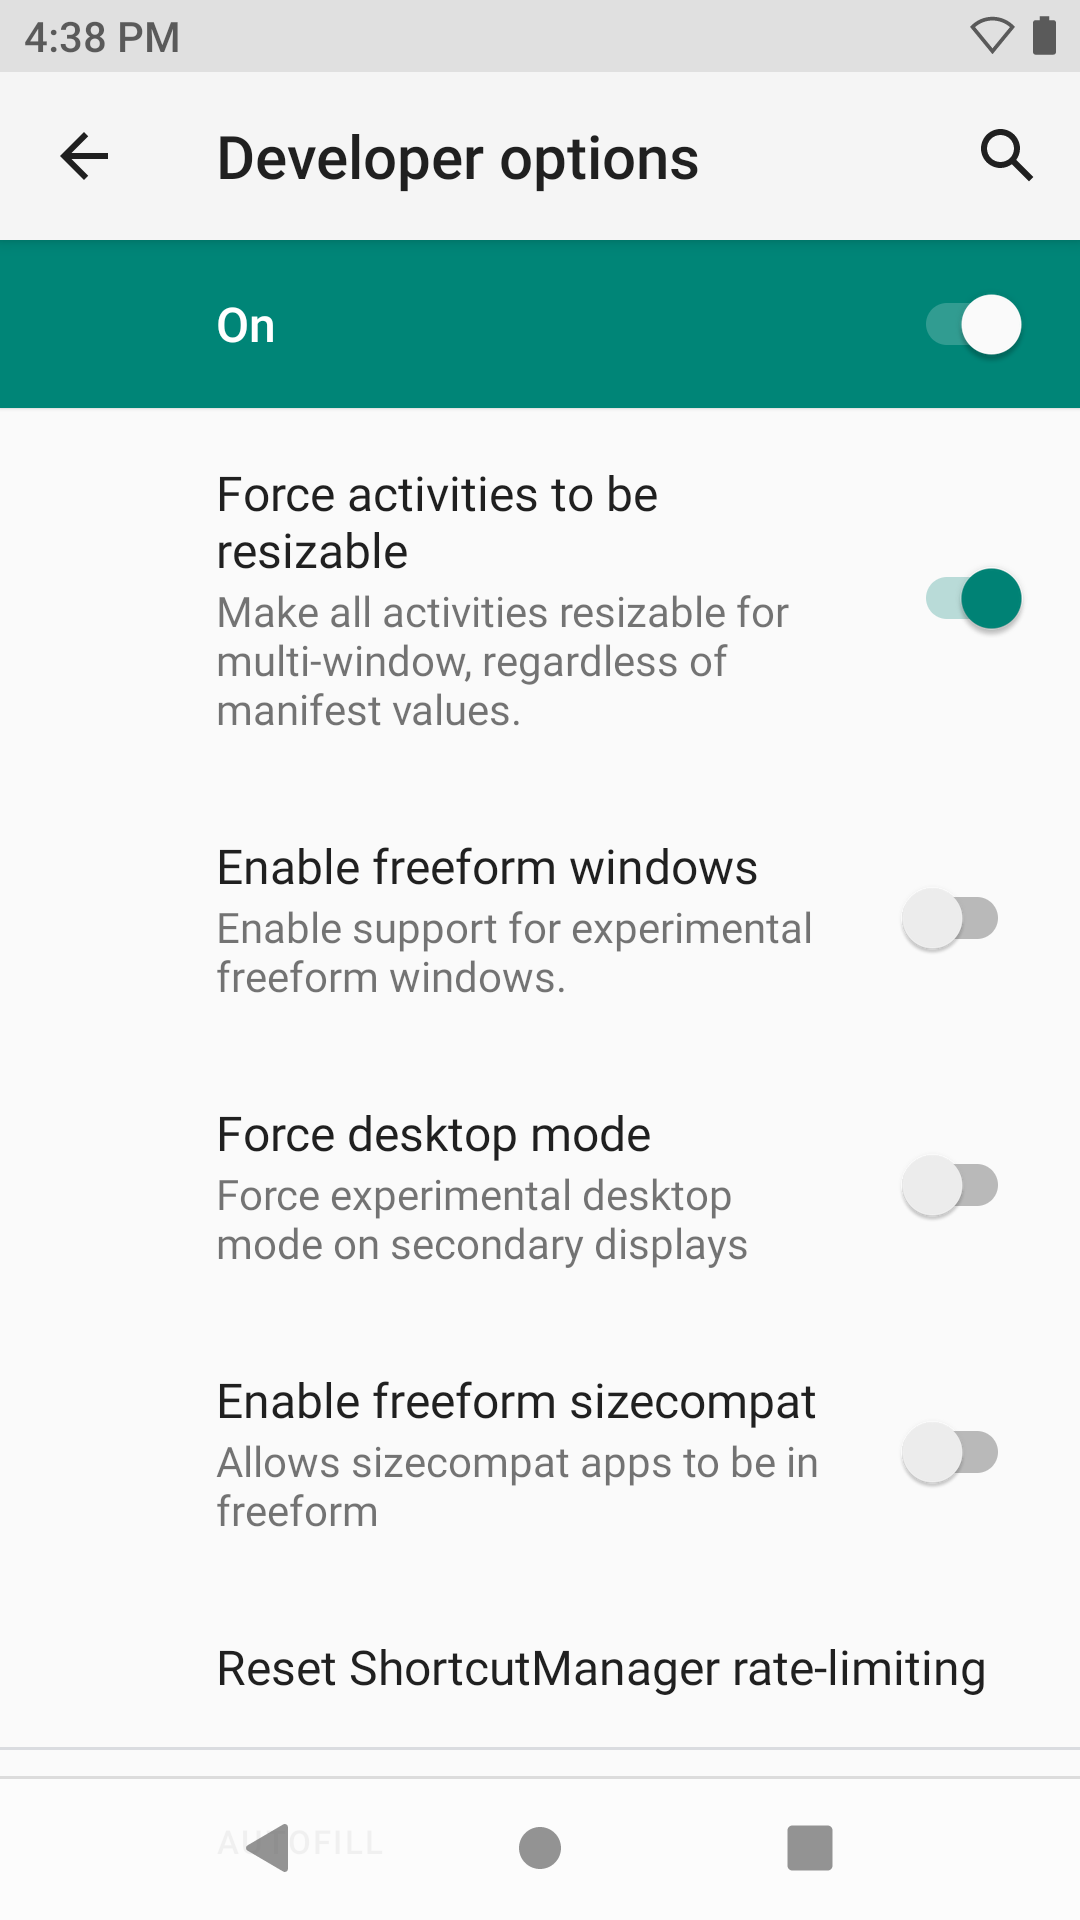
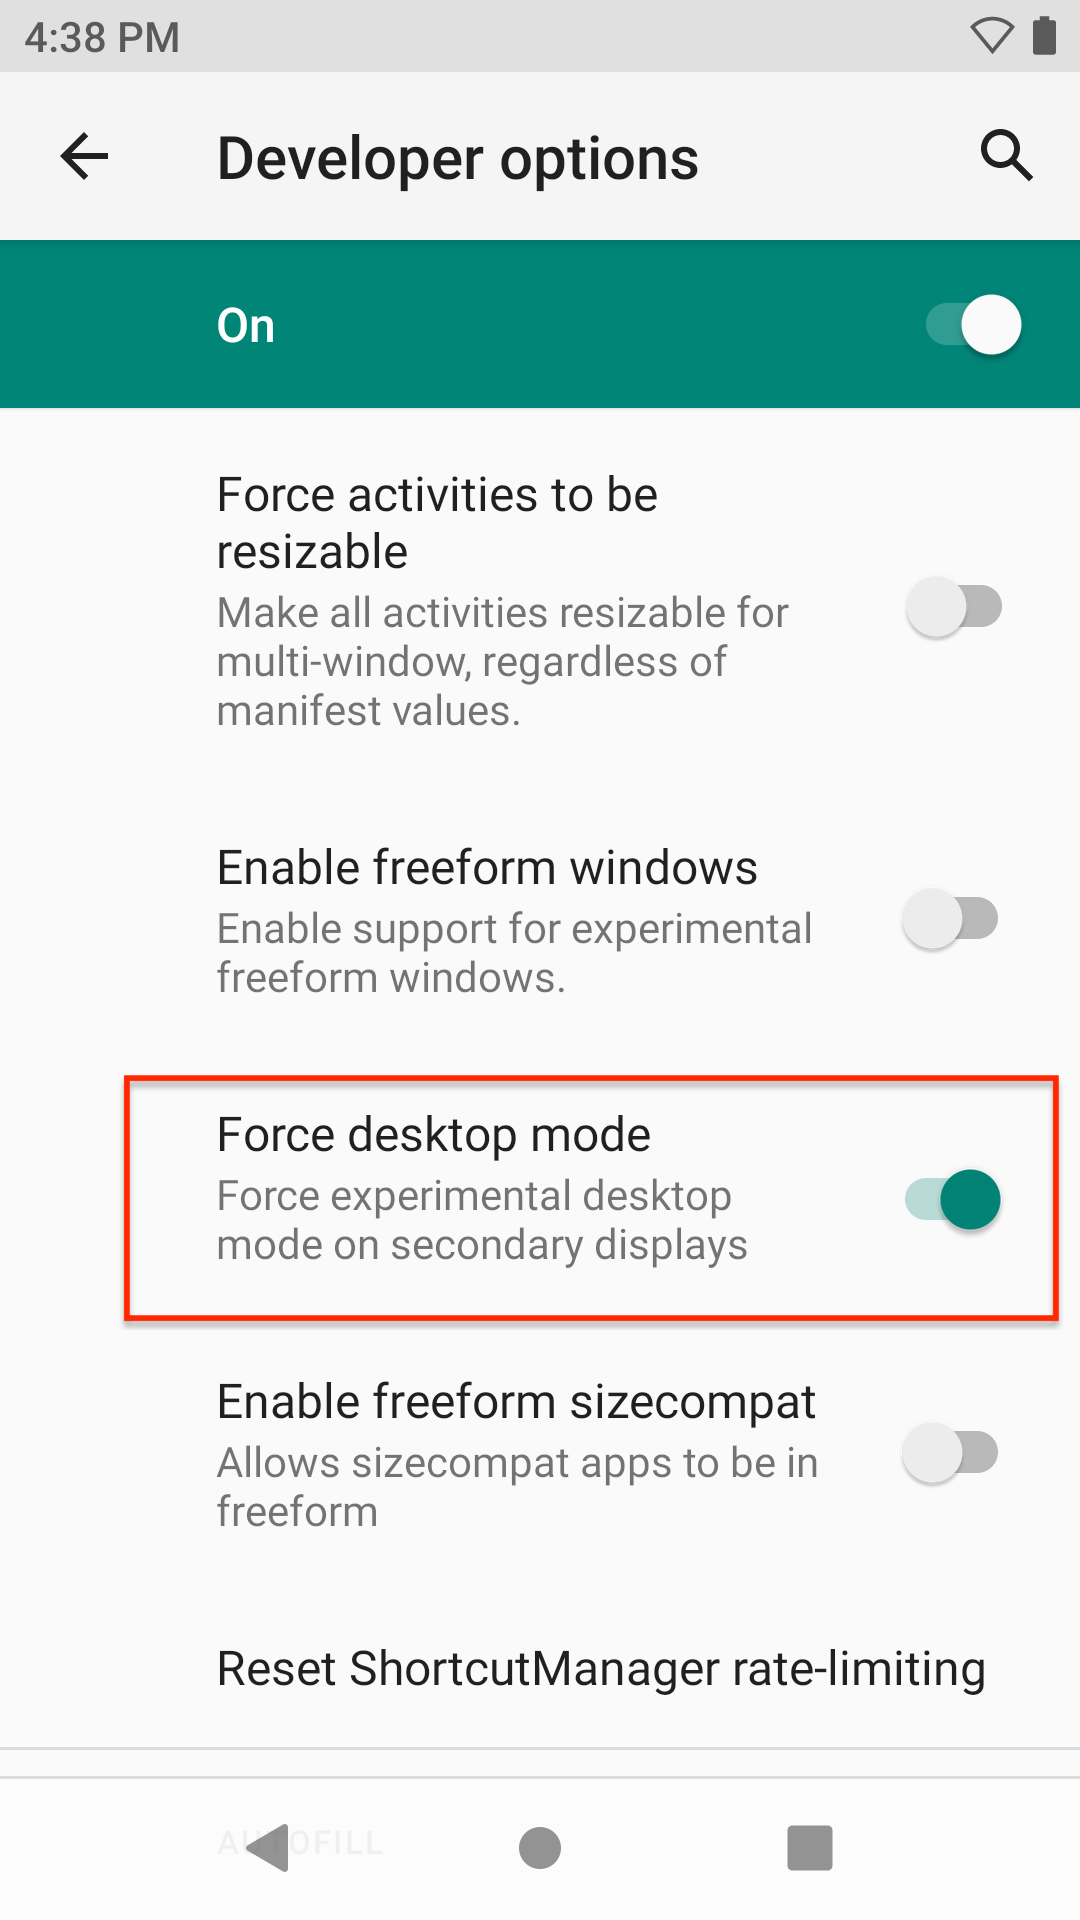
[TUT-54953] ZWC 1.0 updates, tweaks, per team feedback

Changed region(s): [[0.0917, 0.5625, 1.0, 0.7188], [0.8556, 0.2812, 0.9472, 0.3438]]

diff --git a/zwc/setup/index.html b/zwc/setup/index.html
@@ -230,7 +230,7 @@ _Click to enlarge; ESC to exit._
 <ul>
 <li><strong><a href="https://www.zebra.com/us/en/support-downloads/software/productivity-apps/workstation-connect.html">Supported Zebra device(s)</a></strong> running Android 11 (or later)</li>
 
-<li>Android 11 OS package <code>11-13-13.00-RG-U00-PRD-HEL-04</code> (or later) deployed to supported Zebra device(s)</li>
+<li>The latest <strong>Android 11 OS package</strong>  deployed to supported Zebra device(s)</li>
 
 <li><strong>The Zebra Workstation Connect app v1.0</strong> (or later)</li>
 
@@ -287,11 +287,11 @@ Is there a product page (on support portal) for Workstation Docking Cradle?
  -->
 
 <ol>
-<li><p>To prepare for copying files directly from a PC to the device via USB, <strong><a href="https://developer.android.com/studio/debug/dev-options">enable developer options and USB debugging</a> in the device Settings panel</strong>. </p></li>
+<li><p>To prepare for copying files directly from a PC to the device via USB: <br><strong><a href="https://developer.android.com/studio/debug/dev-options">enable developer options and USB debugging</a> in the device Settings panel</strong>. </p></li>
 
-<li><p><strong>Push the Zebra Workstation Connect app</strong> (<code>com.zebra.workstationconnect.release.apk</code>) <strong>onto target device(s)</strong> using adb or a similar means. </p></li>
+<li><p><strong>Push the Zebra Workstation Connect app</strong> (<code>com.zebra.workstationconnect.release</code>) <strong>onto target device(s)</strong> using adb or a similar means. </p></li>
 
-<li><p>On the device, <strong>navigate to</strong> <code>com.zebra.workstationconnect.release.apk</code> <strong>and install the app</strong>. </p></li>
+<li><p>On the device, <strong>navigate to</strong> <code>com.zebra.workstationconnect.release</code> <strong>and install the app</strong>. </p></li>
 
 <li><p>On the device screen, <strong>navigate to the ZWC app and long-press its icon</strong>.<br>Alternatively, go to <strong>Settings &gt; Apps &amp; notifications &gt; SEE ALL APPS &gt; WorkstationConnect &gt; Advanced &gt; Display over other apps</strong>. <br>A screen appears similar to the one shown below: 
 <img alt="image" style="height:350px" src="zwc_display_over.png">
@@ -299,15 +299,14 @@ Is there a product page (on support portal) for Workstation Docking Cradle?
 
 <li><p><strong>Enable the "Display over other apps" option</strong> (it might be necessary to scroll down). <br>When finished, <strong>exit the Settings panel</strong>. </p></li>
 
-<li><p><strong>Zebra recommends forcing activities to be resizable</strong> to provide users with flexibility when organizing their desktops.<br>To enable this setting, go to: <br> <strong>Settings &gt; System &gt; Advanced &gt; Developer options &gt; (scroll down to) Force activities to be resizable</strong>.<br>
+<li><p>In the Developer options panel, <strong>enable Desktop Mode</strong>:<br>
+<strong>Settings &gt; System &gt; Advanced &gt; Developer options &gt; (scroll down to) Enable desktop mode</strong>
 <img alt="image" style="height:450px" src="force_resizable.png">
-<strong>NOTE: Zebra recommends fully testing the functionality of this option with all apps before deployment to production environments</strong>.
+<strong>IMPORTANT</strong>: Mobile-device apps are often configured with a fixed window size, which can impose limits when organizing multiple apps running on the desktop. Selecting the option to <strong>Force activities to be resizable</strong> (shown above) can help alleviate this issue, but <strong>should be tested thoroughly before deployment to production environments</strong>.
 <br></p></li>
-
-<li><p><strong>Reboot the device</strong>. </p></li>
 </ol>
 
-<h4 id="thedevicenowpresentsdesktopmodewhendocked" class="anchor"><a class="heading-anchor" href="#thedevicenowpresentsdesktopmodewhendocked"><span></span></a>The device now presents Desktop Mode when docked.</h4>
+<h4 id="afterrebootingthedevicepresentsdesktopmodewheneverdocked" class="anchor"><a class="heading-anchor" href="#afterrebootingthedevicepresentsdesktopmodewheneverdocked"><span></span></a>After rebooting, the device presents Desktop Mode whenever docked.</h4>
 
 <p><strong>When first inserted into a Workstation Docking Cradle that's connected to an external monitor</strong>, a device configured as above displays the Zebra Workstation Connect default Desktop similar to the image below. The device screen allows the user to launch and run applications as usual. </p>
 
@@ -320,24 +319,6 @@ Is there a product page (on support portal) for Workstation Docking Cradle?
 <blockquote>
   <p><strong>For help setting up Desktop Mode, see the <a href="../pdf/workstationcradle-ug.pdf">Workstation Cradle User Guide (pdf)</a></strong><br> <br> Also see important <a href="../usage">Usage Notes</a> </p>
 </blockquote>
-
-<hr>
-
-<h2 id="alsosee" class="anchor"><a class="heading-anchor" href="#alsosee"><span></span></a>Also See</h2>
-
-<p><strong>For more information about ZWC setup, administration, features and usage</strong>, please refer to the following guides:</p>
-
-<ul>
-<li><strong><a href="../pdf/workstationcradle-admin.pdf">Workstation Connect Administrator's Guide (pdf)</a></strong> | Setting up users, installing/removing apps and shortcuts, configuring access to apps and USB-based storage</li>
-
-<li><strong><a href="../pdf/workstationcradle-ig.pdf">Workstation Connect Installation Guide (pdf)</a></strong> | Installing the ZWC solution manually, or using Zebra StageNow or an EMM system</li>
-
-<li><strong><a href="../pdf/workstationcradle-ug.pdf">Workstation Connect User Guide (pdf)</a></strong> | Desktop Mode set-up and usage</li>
-
-<li><strong><a href="../usage">Usage Notes</a></strong> | Behaviors and restrictions of the Zebra Workstation Connect solution</li>
-
-<li><strong><a href="../faq">FAQ</a></strong> | Frequently asked questions about ZWC</li>
-</ul>
 
 <hr>
 
@@ -407,7 +388,31 @@ for (Display display : displays) {
 
 <h3 id="startingtasks" class="anchor"><a class="heading-anchor" href="#startingtasks"><span></span></a>Starting Tasks</h3>
 
-<p>For apps containing multiple activities, <strong>Zebra recommends following Android developer <a href="https://developer.android.com/guide/components/activities/tasks-and-back-stack#Starting">guidance for starting a new task</a></strong>. </p><p></p>
+<p>For apps containing multiple activities, <strong>Zebra recommends following Android developer <a href="https://developer.android.com/guide/components/activities/tasks-and-back-stack#Starting">guidance for starting a new task</a></strong>. </p>
+
+<hr>
+
+<h3 id="monitordocking" class="anchor"><a class="heading-anchor" href="#monitordocking"><span></span></a>Monitor Docking</h3>
+
+<p>To monitor the docking status of a device programmatically, <strong>try this <a href="https://developer.android.com/training/monitoring-device-state/docking-monitoring">sample code from the Android development community</a></strong>.</p>
+
+<hr>
+
+<h2 id="alsosee" class="anchor"><a class="heading-anchor" href="#alsosee"><span></span></a>Also See</h2>
+
+<p><strong>For more information about ZWC setup, administration, features and usage</strong>, please refer to the following guides:</p>
+
+<ul>
+<li><strong><a href="../pdf/workstationcradle-admin.pdf">Workstation Connect Administrator's Guide (pdf)</a></strong> | Setting up users, apps and shortcuts, configuring access to USB storage</li>
+
+<li><strong><a href="../pdf/workstationcradle-ig.pdf">Workstation Connect Installation Guide (pdf)</a></strong> | Installing the ZWC solution manually, or using Zebra StageNow or an EMM system</li>
+
+<li><strong><a href="../usage">Usage Notes</a></strong> | Behaviors and restrictions of the Zebra Workstation Connect solution</li>
+
+<li><strong><a href="../faq">FAQ</a></strong> | Frequently asked questions about ZWC</li>
+</ul>
+
+<hr><p></p>
                                         
 
 

diff --git a/zwc/about/index.html b/zwc/about/index.html
@@ -227,27 +227,12 @@
 
 <hr>
 
-<h2 id="mirrormode" class="anchor"><a class="heading-anchor" href="#mirrormode"><span></span></a>Mirror Mode</h2>
-
-<p><strong>Mirror Mode displays the same content on the monitor as on the device</strong>. The only difference is the orientation, which is adjusted to display content in landscape mode on the monitor from the vertically oriented device (see image, below). Supported devices will use Mirror Mode by default whenever they're docked in a Workstation Docking Cradle that's connected to an HDMI monitor. </p>
-
-<p><strong>This mode offers the easiest setup</strong>; after installing the required OS on one or more supported devices and connecting a keyboard, mouse and monitor to a Zebra Workstation Docking Cradle, setup is complete. If Mirror Mode functionality is adequate for the intended use case, no further configuration is required. </p>
-
-<p><img alt="image" style="height:450px" src="zwc_gear.png">
-<em>Mirror Mode displays the same content on device and monitor, with adjusted orientation. <br>Click to enlarge; ESC to exit.</em>
-<br>
-<br></p>
-
-<h5 id="foradditionalfeaturesincludingtheabilitytoremotelyconfigurezwcsettingsproceedtothenextsection" class="anchor"><a class="heading-anchor" href="#foradditionalfeaturesincludingtheabilitytoremotelyconfigurezwcsettingsproceedtothenextsection"><span></span></a>For additional features, including the ability to remotely configure ZWC settings, proceed to the next section.</h5>
-
-<hr>
-
 <h2 id="desktopmode" class="anchor"><a class="heading-anchor" href="#desktopmode"><span></span></a>Desktop Mode</h2>
 
 <p><strong>Desktop Mode allows an external monitor to appear to work independently of the mobile device</strong>, displaying a separate set of apps and data from the mobile device. All running apps can accept input from a connected keyboard and mouse as well as the touch screen. </p>
 
 <p><img alt="image" style="height:300px" src="zwc_hardware_retailer_ET.jpeg">
-<em>Desktop Mode can display different sets of apps on the device and monitor (ET5x tablet shown). <br>Click to enlarge; ESC to exit.</em>
+<em>Desktop Mode can display different sets of apps on the device and monitor (Shown: ET5x tablet coming soon). <br>Click to enlarge; ESC to exit.</em>
 <br></p>
 
 <p><strong>This is made possible by Zebra Workstation Connect</strong>, an app launcher for Android that executes automatically whenever a device containing the ZWC app is inserted into a Zebra Workstation Docking Cradle. ZWC handles all communications through the dock, presents the preferred desktop on the external monitor and stores the display resolution settings, app shortcuts and all other user preferences. </p>
@@ -300,10 +285,27 @@
 
 <hr>
 
+<h2 id="mirrormode" class="anchor"><a class="heading-anchor" href="#mirrormode"><span></span></a>Mirror Mode</h2>
+
+<p><strong>Mirror Mode displays the same content on the monitor as on the device</strong>. The only difference between the two is the orientation, which is adjusted to display content in landscape mode on the monitor from the vertically oriented device (see image, below). Supported devices will use Mirror Mode by default whenever they're docked in a Workstation Docking Cradle that's connected to an HDMI monitor. </p>
+
+<p><strong>This mode offers the easiest setup</strong>; after installing the required OS on one or more supported devices and connecting a keyboard, mouse and monitor to a Zebra Workstation Docking Cradle, setup is complete. If Mirror Mode functionality is adequate for the intended use case, no further configuration is required. </p>
+
+<p><img alt="image" style="height:450px" src="zwc_gear.png">
+<em>Mirror Mode displays the same content on device and monitor, with adjusted orientation. <br>Click to enlarge; ESC to exit.</em>
+<br>
+<br></p>
+
+<h5 id="foradditionalfeaturesincludingtheabilitytoremotelyconfigurezwcsettingsproceedtothenextsection" class="anchor"><a class="heading-anchor" href="#foradditionalfeaturesincludingtheabilitytoremotelyconfigurezwcsettingsproceedtothenextsection"><span></span></a>For additional features, including the ability to remotely configure ZWC settings, proceed to the next section.</h5>
+
+<hr>
+
 <h2 id="alsosee" class="anchor"><a class="heading-anchor" href="#alsosee"><span></span></a>Also See</h2>
 
 <ul>
 <li><strong><a href="../setup">ZWC Setup Guide</a></strong> | How to configure a device for ZWC, set ZWC options and mass-deploy</li>
+
+<li><strong><a href="../pdf/workstationcradle-ug.pdf">Workstation Connect User Guide (pdf)</a></strong> | Desktop Mode set-up and usage</li>
 
 <li><strong><a href="../usage">Usage Notes</a></strong> | ZWC app behaviors and restrictions</li>
 

diff --git a/zwc/faq/index.html b/zwc/faq/index.html
@@ -237,7 +237,7 @@
 <p><strong>A: The ZWC package name is</strong>:</p>
 
 <ul>
-<li><code>com.zebra.workstationconnect.release.apk</code></li>
+<li><code>com.zebra.workstationconnect.release</code></li>
 </ul>
 
 <hr>
@@ -263,7 +263,7 @@
 
 <h3 id="qisthezwcapprequiredtoconnectmyzebradevicetoakeyboardmouseandexternalmonitor" class="anchor"><a class="heading-anchor" href="#qisthezwcapprequiredtoconnectmyzebradevicetoakeyboardmouseandexternalmonitor"><span></span></a>Q: Is the ZWC app required to connect my Zebra device to a keyboard, mouse and external monitor?</h3>
 
-<p><strong>A: No, if Mirror Mode is adequate for the use case</strong>. The ZWC app must be installed only if Desktop Mode is required. </p>
+<p><strong>A: No, provided that Mirror Mode is adequate for the use case</strong>. The ZWC app must be installed only if Desktop Mode is required. </p>
 
 <hr>
 
@@ -289,6 +289,14 @@
 <h3 id="qwhydoesnttheaudiolevelincreasewhenraisingthevolume" class="anchor"><a class="heading-anchor" href="#qwhydoesnttheaudiolevelincreasewhenraisingthevolume"><span></span></a>Q: Why doesn't the audio level increase when raising the volume?</h3>
 
 <p><strong>A: Increasing audio volume past a certain level sometimes causes a safety warning to be displayed on the primary (device) screen, where it might go unnoticed. If this happens, find the warning and tap "OK" to continue</strong>. </p>
+
+<hr>
+
+<h3 id="qwhycantilogintoanyappsfromtheexternalmonitor" class="anchor"><a class="heading-anchor" href="#qwhycantilogintoanyappsfromtheexternalmonitor"><span></span></a>Q: Why can't I log into any apps from the external monitor?</h3>
+
+<p><strong>A: As a security precaution for apps that require user credentials, log-in dialog boxes do not appear on the secondary screen</strong>. Such apps can be used in the secondary screen after the credentials are provided on the primary. </p>
+
+<hr>
 
 <h2 id="alsosee" class="anchor"><a class="heading-anchor" href="#alsosee"><span></span></a>Also See</h2>
 

diff --git a/zwc/usage/index.html b/zwc/usage/index.html
@@ -232,9 +232,10 @@
 
 <li><strong>Apps that implement a floating button (aka “toggle head”) feature</strong> can be used only on the primary (device) screen. </li>
 
-<li><strong>If a mouse without scroll wheel is being used</strong>, some apps running on a secondary screen (E.g. Settings) might not scroll to the bottom of a dialog box. </li>
-
-<li>Some apps that restrict activities to a fixed orientation may cause a flickering effect in the secondary screen. REMEDY: Press the back button in the task bar. </li>
+<li>Some apps that restrict activities to a fixed orientation may cause a flickering effect in the secondary screen. REMEDY: Press the back button in the task bar. 
+<!-- 8/4/21- per eng, appl;ies to A10 only
+* **If a mouse without scroll wheel is being used**, some apps running on a secondary screen (E.g. Settings) might not scroll to the bottom of a dialog box. 
+ --></li>
 </ul>
 
 <h3 id="audio" class="anchor"><a class="heading-anchor" href="#audio"><span></span></a>Audio</h3>
@@ -262,7 +263,7 @@
 <ul>
 <li>Zebra recommends disabling Secure Start-up when using Desktop mode (controlled using the DevAdmin CSP).</li>
 
-<li><strong>Log-in dialog boxes of apps that require user credentials do not appear in the secondary screen</strong>. Such apps can be used in the secondary screen once the credentials are provided on the primary.</li>
+<li><strong>Log-in dialog boxes of apps that require user credentials do not appear on the secondary screen</strong>. Such apps can be used in the secondary screen once the credentials are provided on the primary.</li>
 
 <li><strong>Once docked, the user can unlock the device only from primary screen</strong>; the secondary screen/monitor cannot be used to interact with the device lock screen. </li>
 
